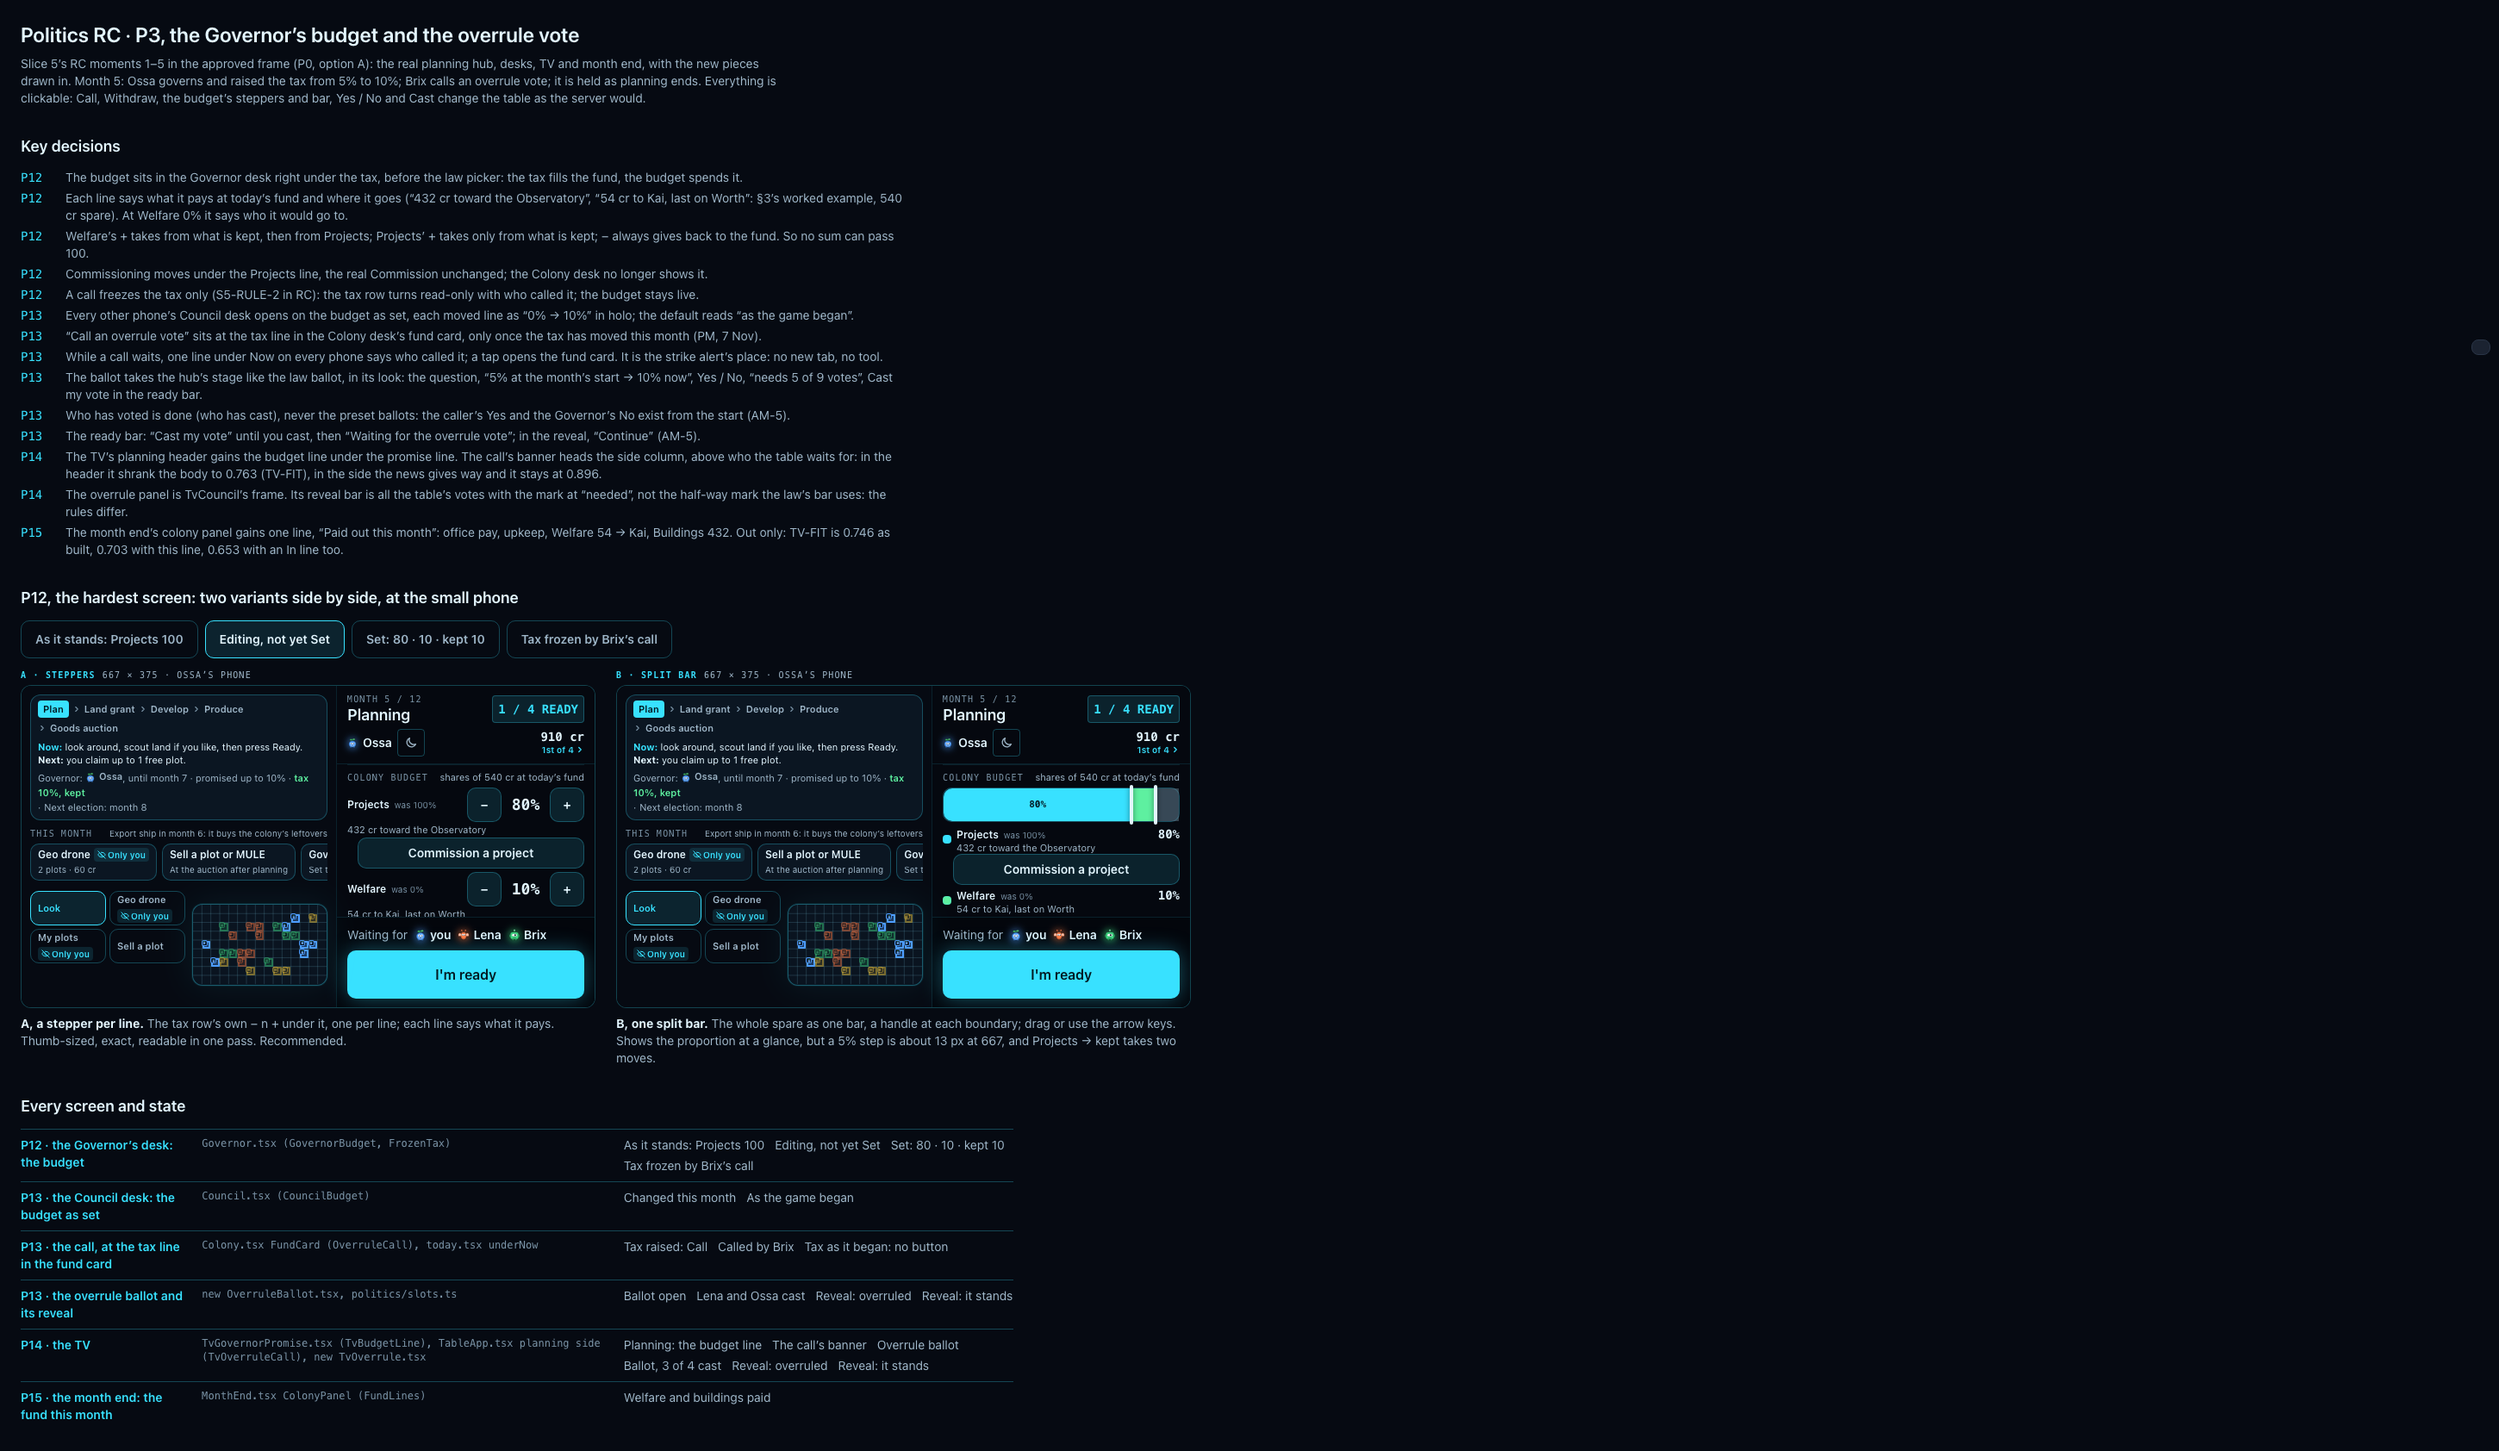
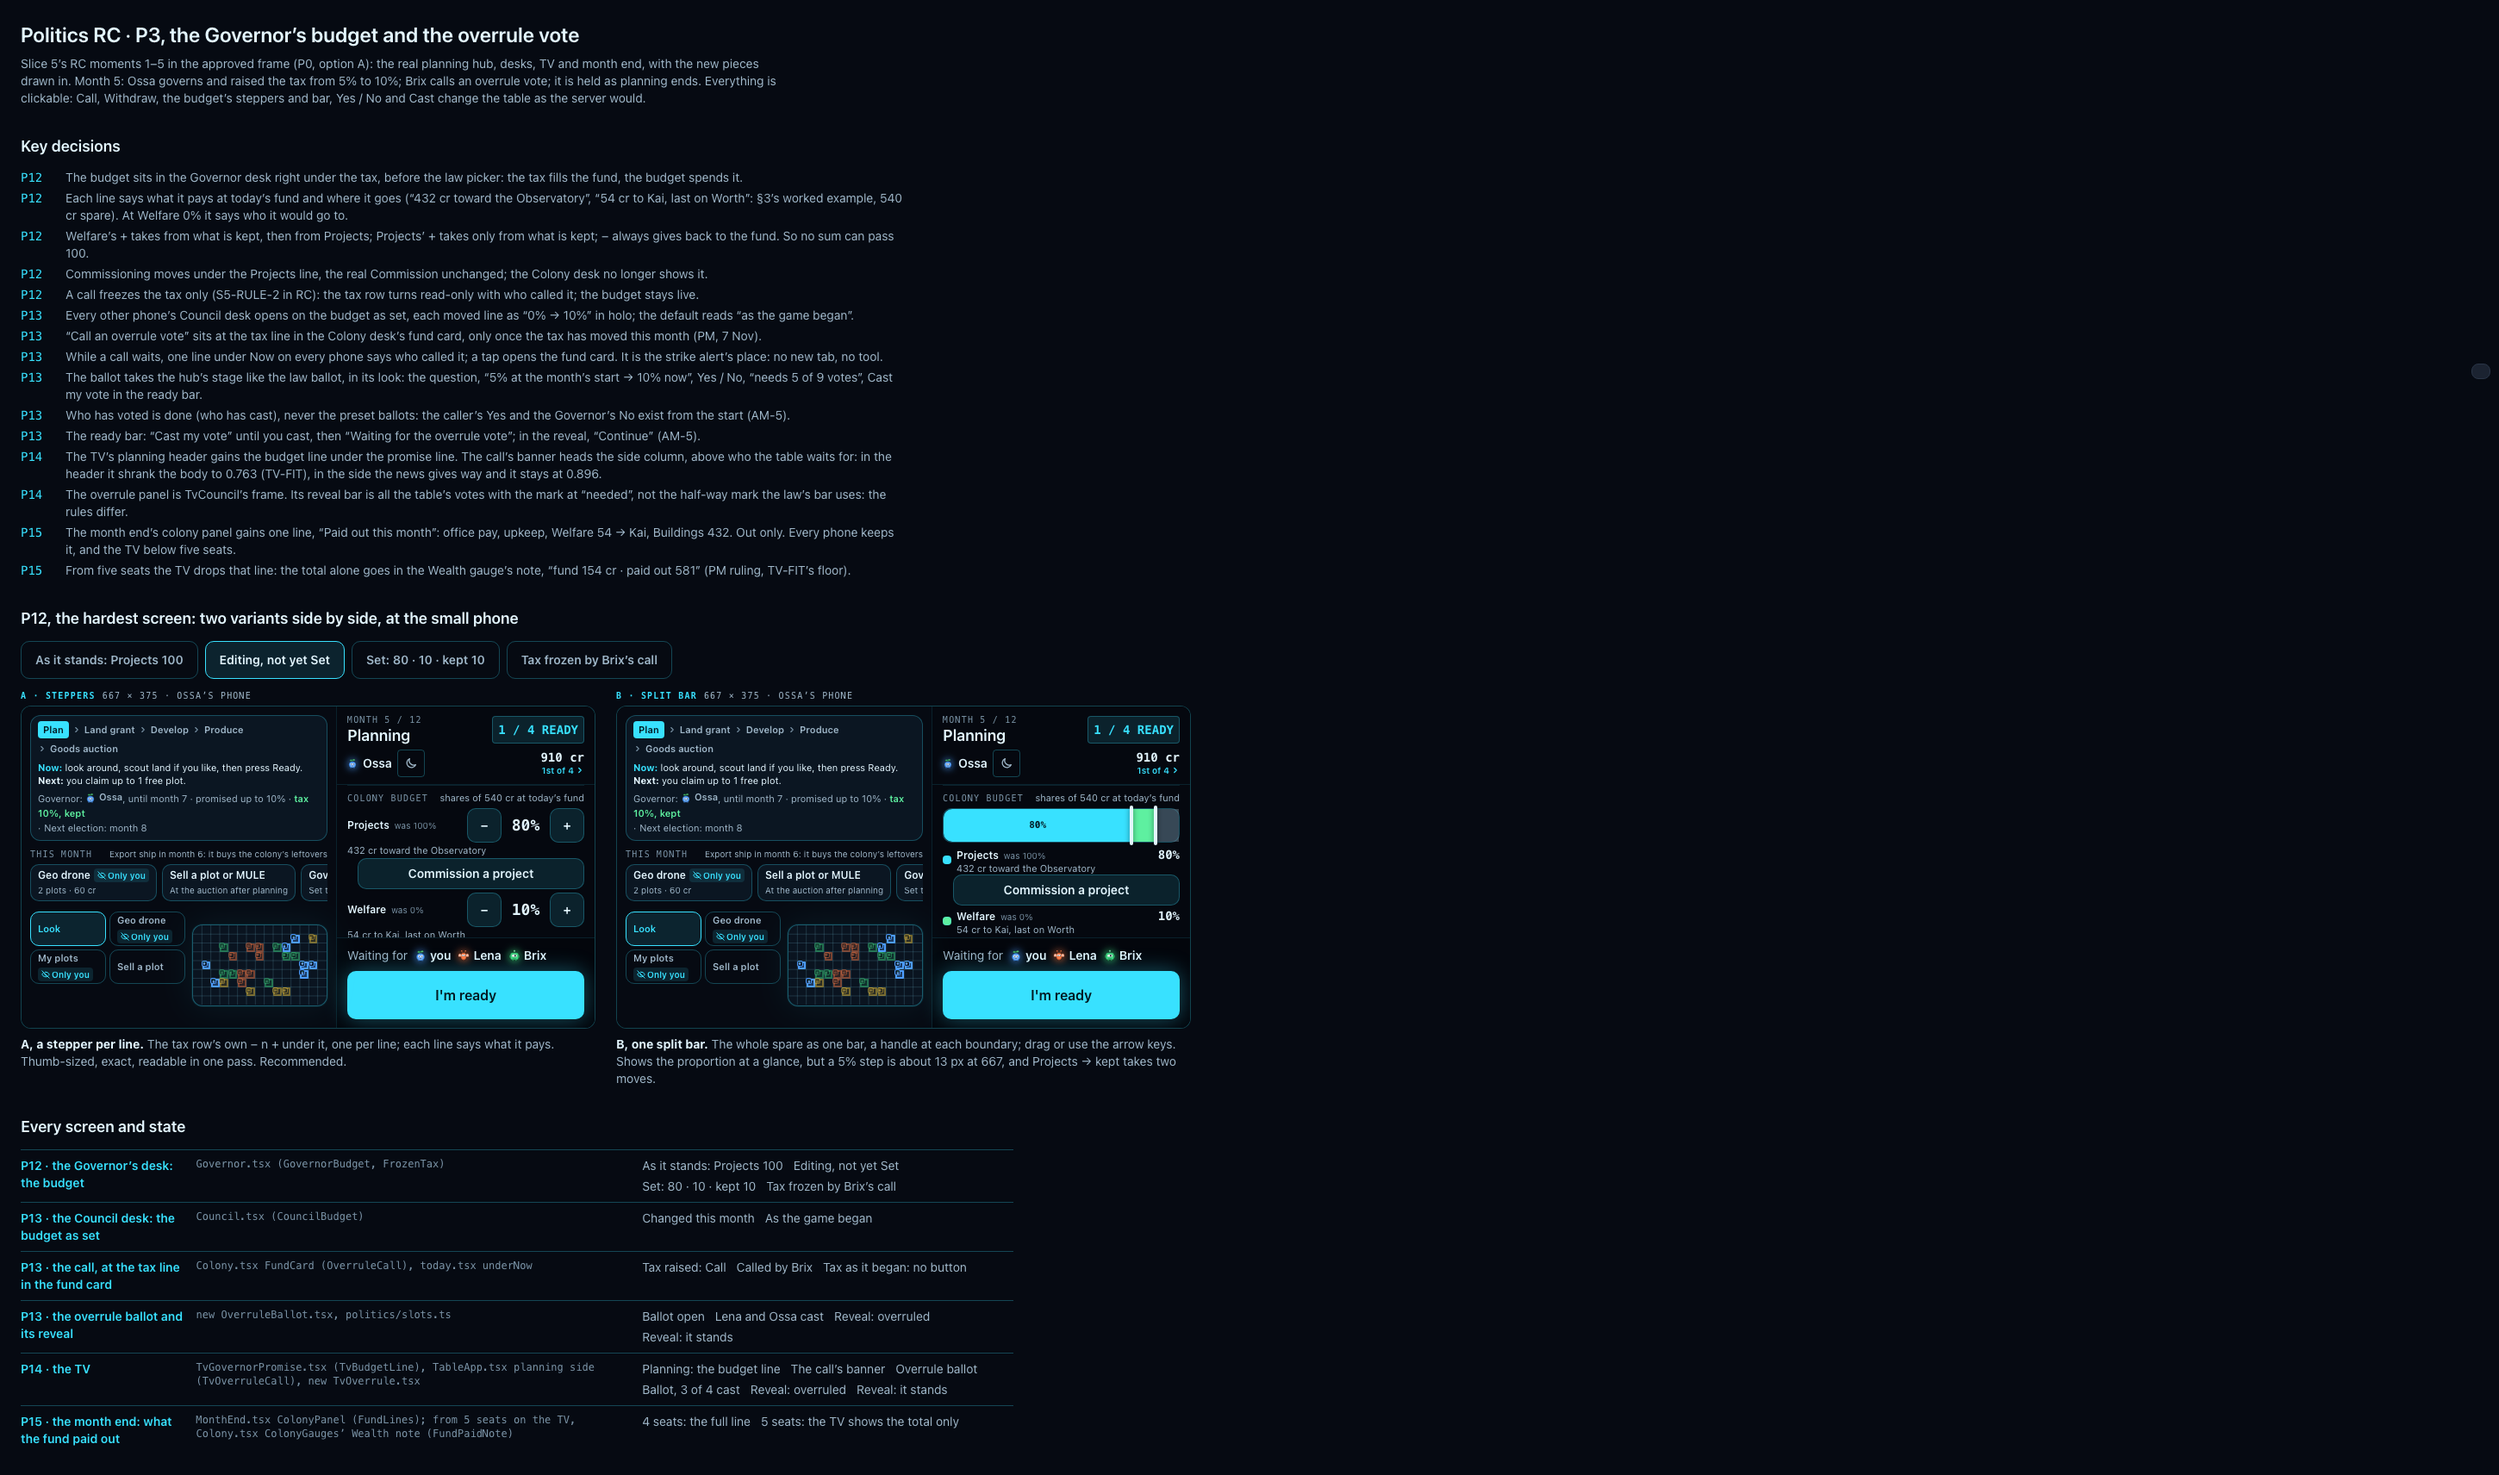
chore(mocks): politics P15, the five-seat TV form
PM ruling on TV-FIT's floor: from five seats the TV month end drops the
"Paid out this month" line and shows the total in the Wealth gauge's note
("fund 154 cr · paid out 581"). Phones, and the TV below five seats, keep
the full line. A P15 state of its own for five seats; ?seats=5|6 seats the
extra AI players.

diff --git a/design/mocks/politics-budget/src/App.tsx b/design/mocks/politics-budget/src/App.tsx
@@ -9,7 +9,7 @@ import { TableApp } from '../../../../apps/web/src/table/TableApp';
 import { HUB_SLOTS } from '../../../../apps/web/src/phone/hub/today';
 import { apply, boardClient, clientFor, gameFor, HOLDER, SCENES, SEATS, tableOf, viewFor, type Intent, type Scene, type SceneId, type Seat, type Shares } from './fixture';
 import { Graft } from './Graft';
-import { FundLines } from './proposed/FundLines';
+import { FundLines, FundPaidNote, fundOnTv } from './proposed/FundLines';
 import type { Variant } from './proposed/GovernorBudget';
 import { TvBudgetLine, TvOverruleCall } from './proposed/TvBudgetLine';
 import { TvOverrule } from './proposed/TvOverrule';
@@ -33,7 +33,8 @@ const DECISIONS: [string, string][] = [
   ['P13', 'The ready bar: “Cast my vote” until you cast, then “Waiting for the overrule vote”; in the reveal, “Continue” (AM-5).'],
   ['P14', 'The TV’s planning header gains the budget line under the promise line. The call’s banner heads the side column, above who the table waits for: in the header it shrank the body to 0.763 (TV-FIT), in the side the news gives way and it stays at 0.896.'],
   ['P14', 'The overrule panel is TvCouncil’s frame. Its reveal bar is all the table’s votes with the mark at “needed”, not the half-way mark the law’s bar uses: the rules differ.'],
-  ['P15', 'The month end’s colony panel gains one line, “Paid out this month”: office pay, upkeep, Welfare 54 → Kai, Buildings 432. Out only. TV-FIT, open finding: with the Observatory collecting, 0.701 as built and 0.663 with this line, under the 0.7 floor.'],
+  ['P15', 'The month end’s colony panel gains one line, “Paid out this month”: office pay, upkeep, Welfare 54 → Kai, Buildings 432. Out only. Every phone keeps it, and the TV below five seats.'],
+  ['P15', 'From five seats the TV drops that line: the total alone goes in the Wealth gauge’s note, “fund 154 cr · paid out 581” (PM ruling, TV-FIT’s floor).'],
 ];
 
 interface StateDef {
@@ -41,6 +42,8 @@ interface StateDef {
   label: string;
   scene: SceneId;
   seed?: Shares;
+  /** Seats at the table for this state (4 unless set): P15's five-seat form. */
+  seats?: number;
 }
 interface ScreenDef {
   id: string;
@@ -98,8 +101,11 @@ const SCREENS: ScreenDef[] = [
     ],
   },
   {
-    id: 'p15', title: 'P15 · the month end: the fund this month', graft: 'MonthEnd.tsx ColonyPanel (FundLines)', kind: 'monthEnd', seats: ['lena'],
-    states: [{ id: 'paid', label: 'Welfare and buildings paid', scene: 'monthEnd' }],
+    id: 'p15', title: 'P15 · the month end: what the fund paid out', graft: 'MonthEnd.tsx ColonyPanel (FundLines); from 5 seats on the TV, Colony.tsx ColonyGauges’ Wealth note (FundPaidNote)', kind: 'monthEnd', seats: ['lena'],
+    states: [
+      { id: 'paid', label: '4 seats: the full line', scene: 'monthEnd' },
+      { id: 'five', label: '5 seats: the TV shows the total only', scene: 'monthEnd', seats: 5 },
+    ],
   },
 ];
 
@@ -160,7 +166,8 @@ function Tv({ scene }: { scene: Scene }) {
     <figure className="flex flex-col gap-1" data-testid="tv-1280">
       <figcaption className="label-caps text-[10px]! text-ink-2">1280 × 720 · the TV</figcaption>
       {/* MOCK: TableApp's root is h-dvh (the TV's whole window); in this frame it is the frame's height, so Scaled draws 1:1. */}
-      <div className="overflow-hidden rounded-panel border border-holo-line [&>div]:h-full!" style={{ width: 1280, height: 720 }} data-graft-scope data-frame="tv">
+      {/* MOCK: from five seats the Wealth gauge's own note is hidden and FundPaidNote drawn in its place (the build changes ColonyGauges' note). */}
+      <div className={cx('overflow-hidden rounded-panel border border-holo-line [&>div]:h-full!', scene.moment === 'monthEnd' && !TODAY && fundOnTv(game) === 'total' && '[&_[data-testid=gauge-wealth]_span.truncate]:hidden')} style={{ width: 1280, height: 720 }} data-graft-scope data-frame="tv">
         <ClientProvider client={client}>
           {overrule ? (
             <TvOverrule game={game} />
@@ -168,9 +175,15 @@ function Tv({ scene }: { scene: Scene }) {
             <>
               <TableApp room="MULE" />
               {TODAY ? null : scene.moment === 'monthEnd' ? (
-                <Graft at='[data-testid="colony-fund"]' className="col-span-2">
-                  <FundLines view={game} density="tv" />
-                </Graft>
+                fundOnTv(game) === 'line' ? (
+                  <Graft at='[data-testid="colony-fund"]' className="col-span-2">
+                    <FundLines view={game} density="tv" />
+                  </Graft>
+                ) : (
+                  <Graft at='[data-testid="gauge-wealth"] span.truncate' className="min-w-0 truncate">
+                    <FundPaidNote view={game} />
+                  </Graft>
+                )
               ) : (
                 <>
                   <Graft at='[data-testid="tv-governor-promise"]'>
@@ -279,7 +292,7 @@ function Index() {
                 <td className="py-2 pr-3 font-mono text-xs text-ink-3">{s.graft}</td>
                 <td className="flex flex-wrap gap-x-3 gap-y-1 py-2">
                   {s.states.map((st) => (
-                    <a key={st.id} className="text-ink-2 underline-offset-2 hover:text-holo hover:underline" href={href({ screen: s.id, state: st.id })} data-testid={`state-link-${s.id}-${st.id}`}>
+                    <a key={st.id} className="text-ink-2 underline-offset-2 hover:text-holo hover:underline" href={href({ screen: s.id, state: st.id, seats: st.seats?.toString() })} data-testid={`state-link-${s.id}-${st.id}`}>
                       {st.label}
                     </a>
                   ))}
@@ -298,7 +311,10 @@ function ScreenPage({ screen, stateId, seatId, variant }: { screen: ScreenDef; s
   const seat = (screen.seats.find((s) => s === seatId) ?? screen.seats[0] ?? 'lena') as Seat;
   const [scene, send] = useScene(SCENES[state.scene]);
   const key = `${state.id}-${seat}-${variant}`;
-  const at = (over: Record<string, string | undefined>) => href({ screen: screen.id, state: state.id, seat: screen.seats.length > 1 ? seat : undefined, variant: screen.id === 'p12' ? variant : undefined, ...over });
+  const at = (over: Record<string, string | undefined>) => {
+    const to = screen.states.find((s) => s.id === (over.state ?? state.id));
+    return href({ screen: screen.id, state: state.id, seat: screen.seats.length > 1 ? seat : undefined, variant: screen.id === 'p12' ? variant : undefined, seats: to?.seats?.toString(), ...over });
+  };
   return (
     <main className="flex min-h-dvh flex-col gap-6 bg-table p-6 text-ink" data-testid={`screen-${screen.id}`} data-state={state.id} data-seat={seat}>
       <header className="flex flex-col gap-2">

diff --git a/design/mocks/politics-budget/src/proposed/FundLines.tsx b/design/mocks/politics-budget/src/proposed/FundLines.tsx
@@ -10,11 +10,33 @@ import { fmt, toSlot } from '../../../../../apps/web/src/game/derive';
  * Colony fund blocks; on the phone (compact) the panel's last row, across its three columns. The numbers are
  * ColonyView.ledger's out and ColonyView.welfare (S5-C8); month-end.ts's colonyReport gains them.
  *
- * Out only, in the spec's list: office pay, upkeep, Welfare and whom it went to, buildings. One line on the TV, because
- * the month end sits at TV-FIT's floor already. OPEN FINDING (measured 7 Nov): with the Observatory collecting, the month
- * end is 0.701 as built and 0.663 with this line, under the 0.7 floor (with a Stadium building instead: 0.746 → 0.703).
- * The balance beside it is the fund after them. Security is after RC and has no place here.
+ * Out only, in the spec's list: office pay, upkeep, Welfare and whom it went to, buildings. The balance beside it is the
+ * fund after them. Security is after RC and has no place here.
+ *
+ * PM ruling (TV-FIT's 0.7 floor): every phone keeps the full line, and so does the TV below five seats. From five seats
+ * the TV drops it; only the total shows, in the Wealth gauge's note: "fund 154 cr · paid out 581" (FundPaidNote). GRAFT
+ * TARGET for that one: apps/web/src/components/Colony.tsx, ColonyGauges, the Wealth gauge's `note` at size 'tv' in the
+ * month end. The phone's and the TV's gauges in every other phase keep "fund N cr".
  */
+
+/** From this many seats the TV's month end shows the total only (PM ruling). */
+export const FUND_LINE_SEATS_MAX = 4;
+
+/** Which form the TV's month end uses: the full line, or the total in the Wealth gauge's note. */
+export const fundOnTv = (view: Pick<MuleView, 'players'>): 'line' | 'total' => (view.players.length > FUND_LINE_SEATS_MAX ? 'total' : 'line');
+
+/** What the fund paid out this month, in all: the ledger's out lines summed. */
+export const paidOut = (view: Pick<MuleView, 'colony'>) => Object.values(view.colony?.ledger?.out ?? {}).reduce((n, v) => n + (v ?? 0), 0);
+
+/** The five-seat TV's Wealth note: "fund 154 cr · paid out 581". */
+export function FundPaidNote({ view }: { view: MuleView }) {
+  if (!view.colony?.ledger) return null;
+  return (
+    <span className="whitespace-nowrap text-ink-3" data-testid="fund-paid-note">
+      fund {fmt(view.colony.fund)} cr · paid out {fmt(paidOut(view))}
+    </span>
+  );
+}
 
 const OUT_ORDER: FundLine[] = ['officePay', 'upkeep', 'repair', 'strikePay', 'welfare', 'project'];
 const OUT_NAME: Partial<Record<FundLine, string>> = { officePay: 'office pay', upkeep: 'upkeep', repair: 'repairs', strikePay: 'strike pay', welfare: 'Welfare', project: 'Buildings' };

diff --git a/design/mocks/politics-budget/src/fixture.ts b/design/mocks/politics-budget/src/fixture.ts
@@ -82,12 +82,18 @@ const BASE_PLAYERS: PlayerView[] = [
   aPlayer({ id: 'kai', name: 'Kai', slot: 3, species: 'mollox', isAi: true, ready: true, money: 215, plots: 5, worth: 2950, lastWorth: 2900 }),
 ];
 
-/** ?six seats two more AI players, for measuring the TV against TV-FIT's six-seat floor (PM ruling, 6 Nov). */
-if (typeof location !== 'undefined' && new URLSearchParams(location.search).has('six')) {
-  BASE_PLAYERS.push(
-    aPlayer({ id: 'mira', name: 'Mira', slot: 4, species: 'zipwing', isAi: true, ready: true, money: 300, plots: 5, worth: 3300, lastWorth: 3200 }),
-    aPlayer({ id: 'tov', name: 'Tov', slot: 5, species: 'gearling', isAi: true, ready: true, money: 280, plots: 5, worth: 3100, lastWorth: 3150 }),
-  );
+/**
+ * ?seats=5 or ?seats=6 (?six is 6) seats one or two more AI players: P15's five-seat form, and TV-FIT's floor measured
+ * at five and six seats (PM ruling, 6 Nov). The extra seats weigh 0 votes, so the overrule's numbers stay "5 of 9".
+ */
+const EXTRA = [
+  aPlayer({ id: 'mira', name: 'Mira', slot: 4, species: 'zipwing', isAi: true, ready: true, money: 300, plots: 5, worth: 3300, lastWorth: 3200 }),
+  aPlayer({ id: 'tov', name: 'Tov', slot: 5, species: 'gearling', isAi: true, ready: true, money: 280, plots: 5, worth: 3100, lastWorth: 3150 }),
+];
+if (typeof location !== 'undefined') {
+  const q = new URLSearchParams(location.search);
+  const seats = q.has('six') ? 6 : Number(q.get('seats') ?? 4);
+  BASE_PLAYERS.push(...EXTRA.slice(0, Math.max(0, Math.min(6, seats) - 4)));
 }
 
 /**
